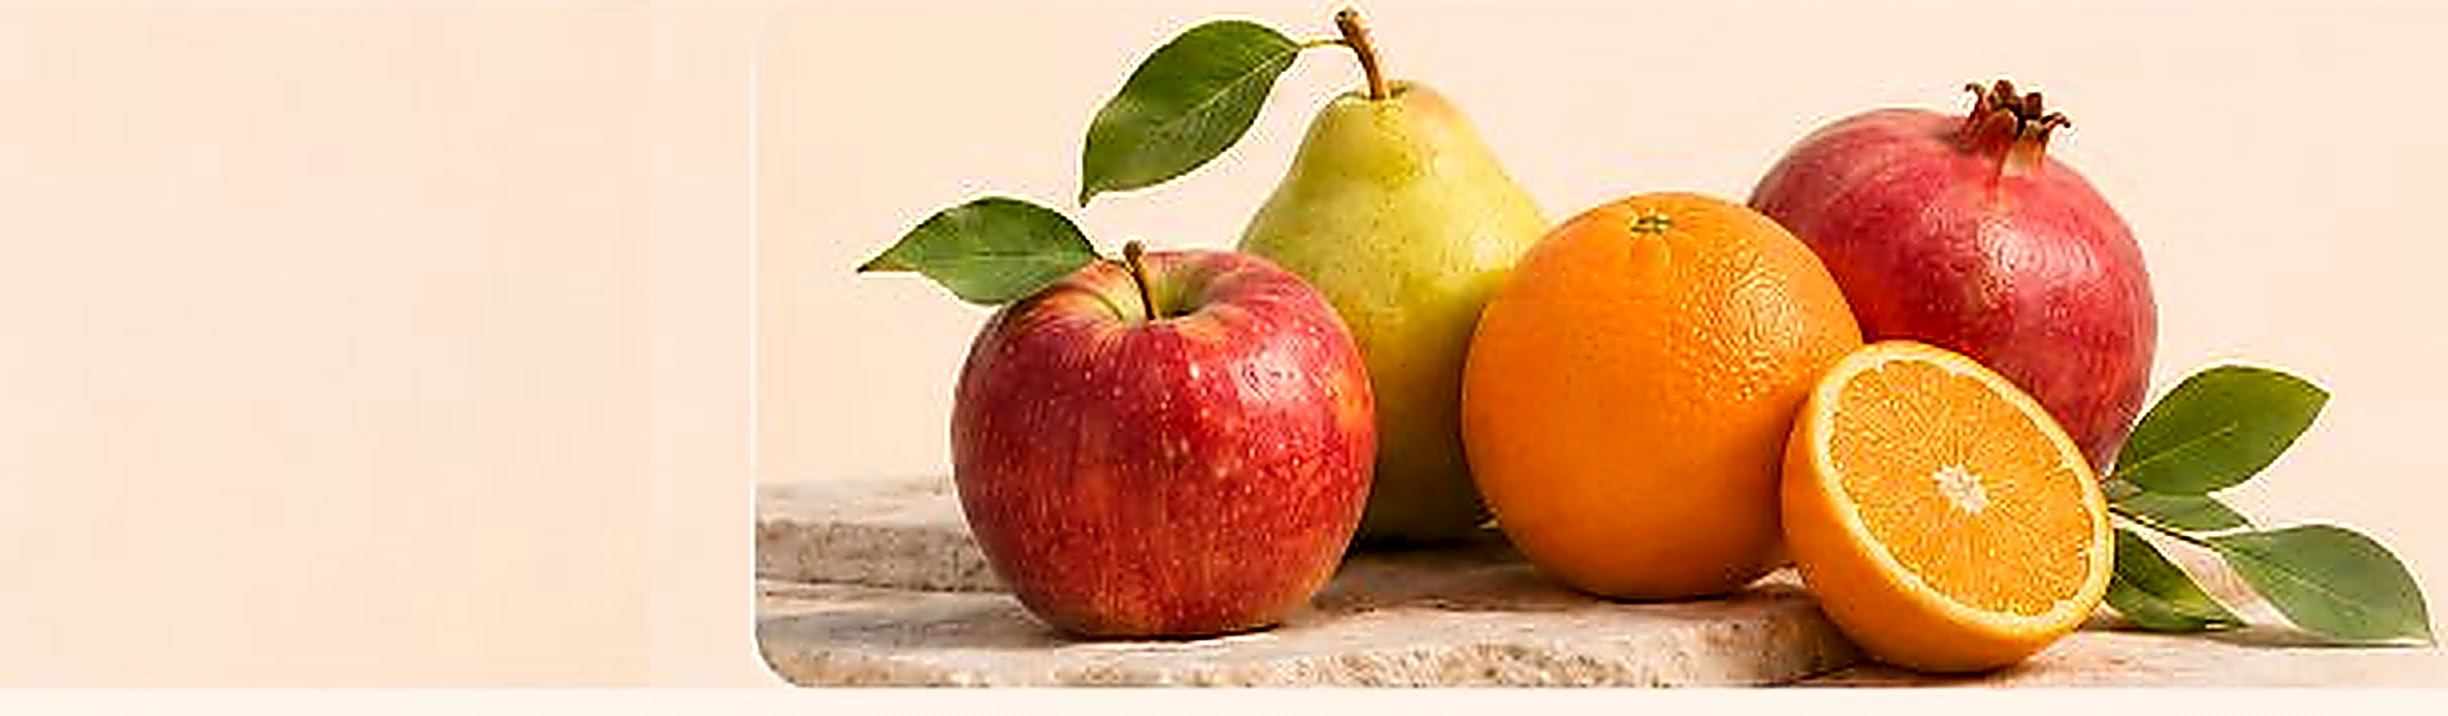
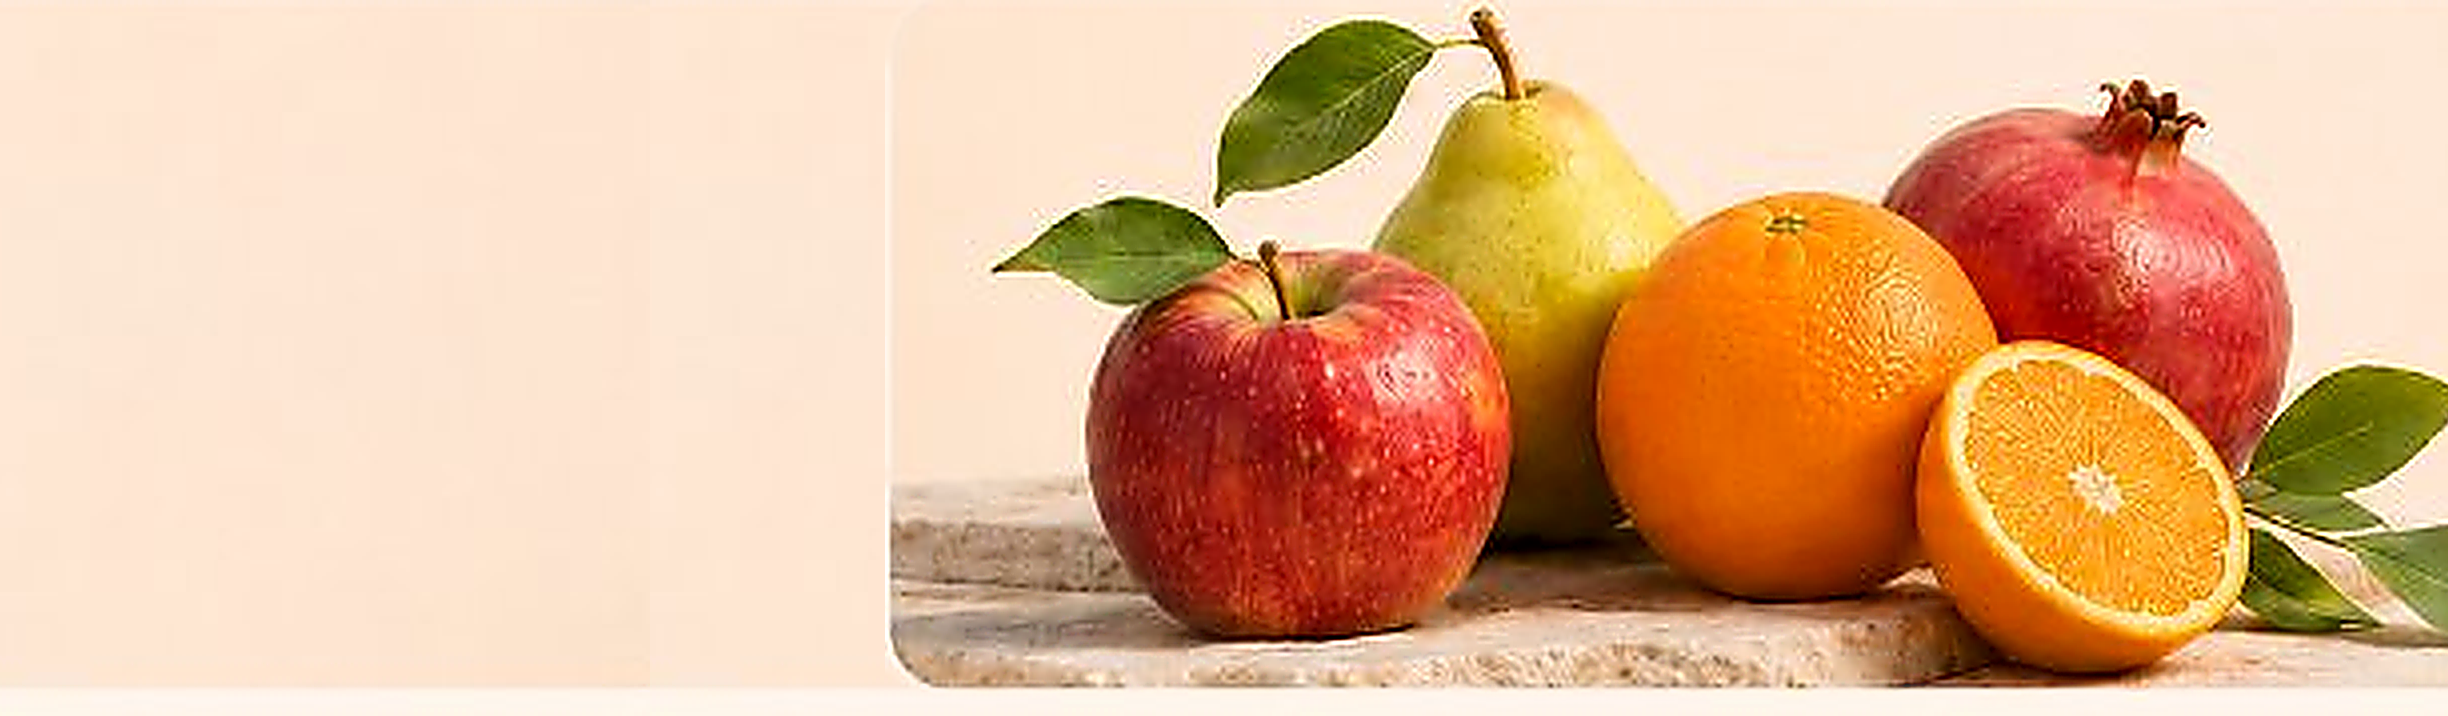
fix(bento): align fruit start position to 890px matching vegetables and update image path to v4 to prevent CDN caching

diff --git a/src/components/HarvestCategoryGrid.tsx b/src/components/HarvestCategoryGrid.tsx
@@ -1234,7 +1234,7 @@ export default function HarvestCategoryGrid() {
                     aria-label="Open Fruits Products"
                   >
                     <img
-                      src="/images/bento_v3/fruit_exact_2x.png"
+                      src="/images/bento_v3/fruit_exact_v4.png"
                       alt="Fresh Orchard Fruits"
                       className="absolute inset-0 w-full h-full object-cover transition-transform duration-700 ease-out group-hover:scale-[1.02] pointer-events-none select-none"
                       loading="eager"
